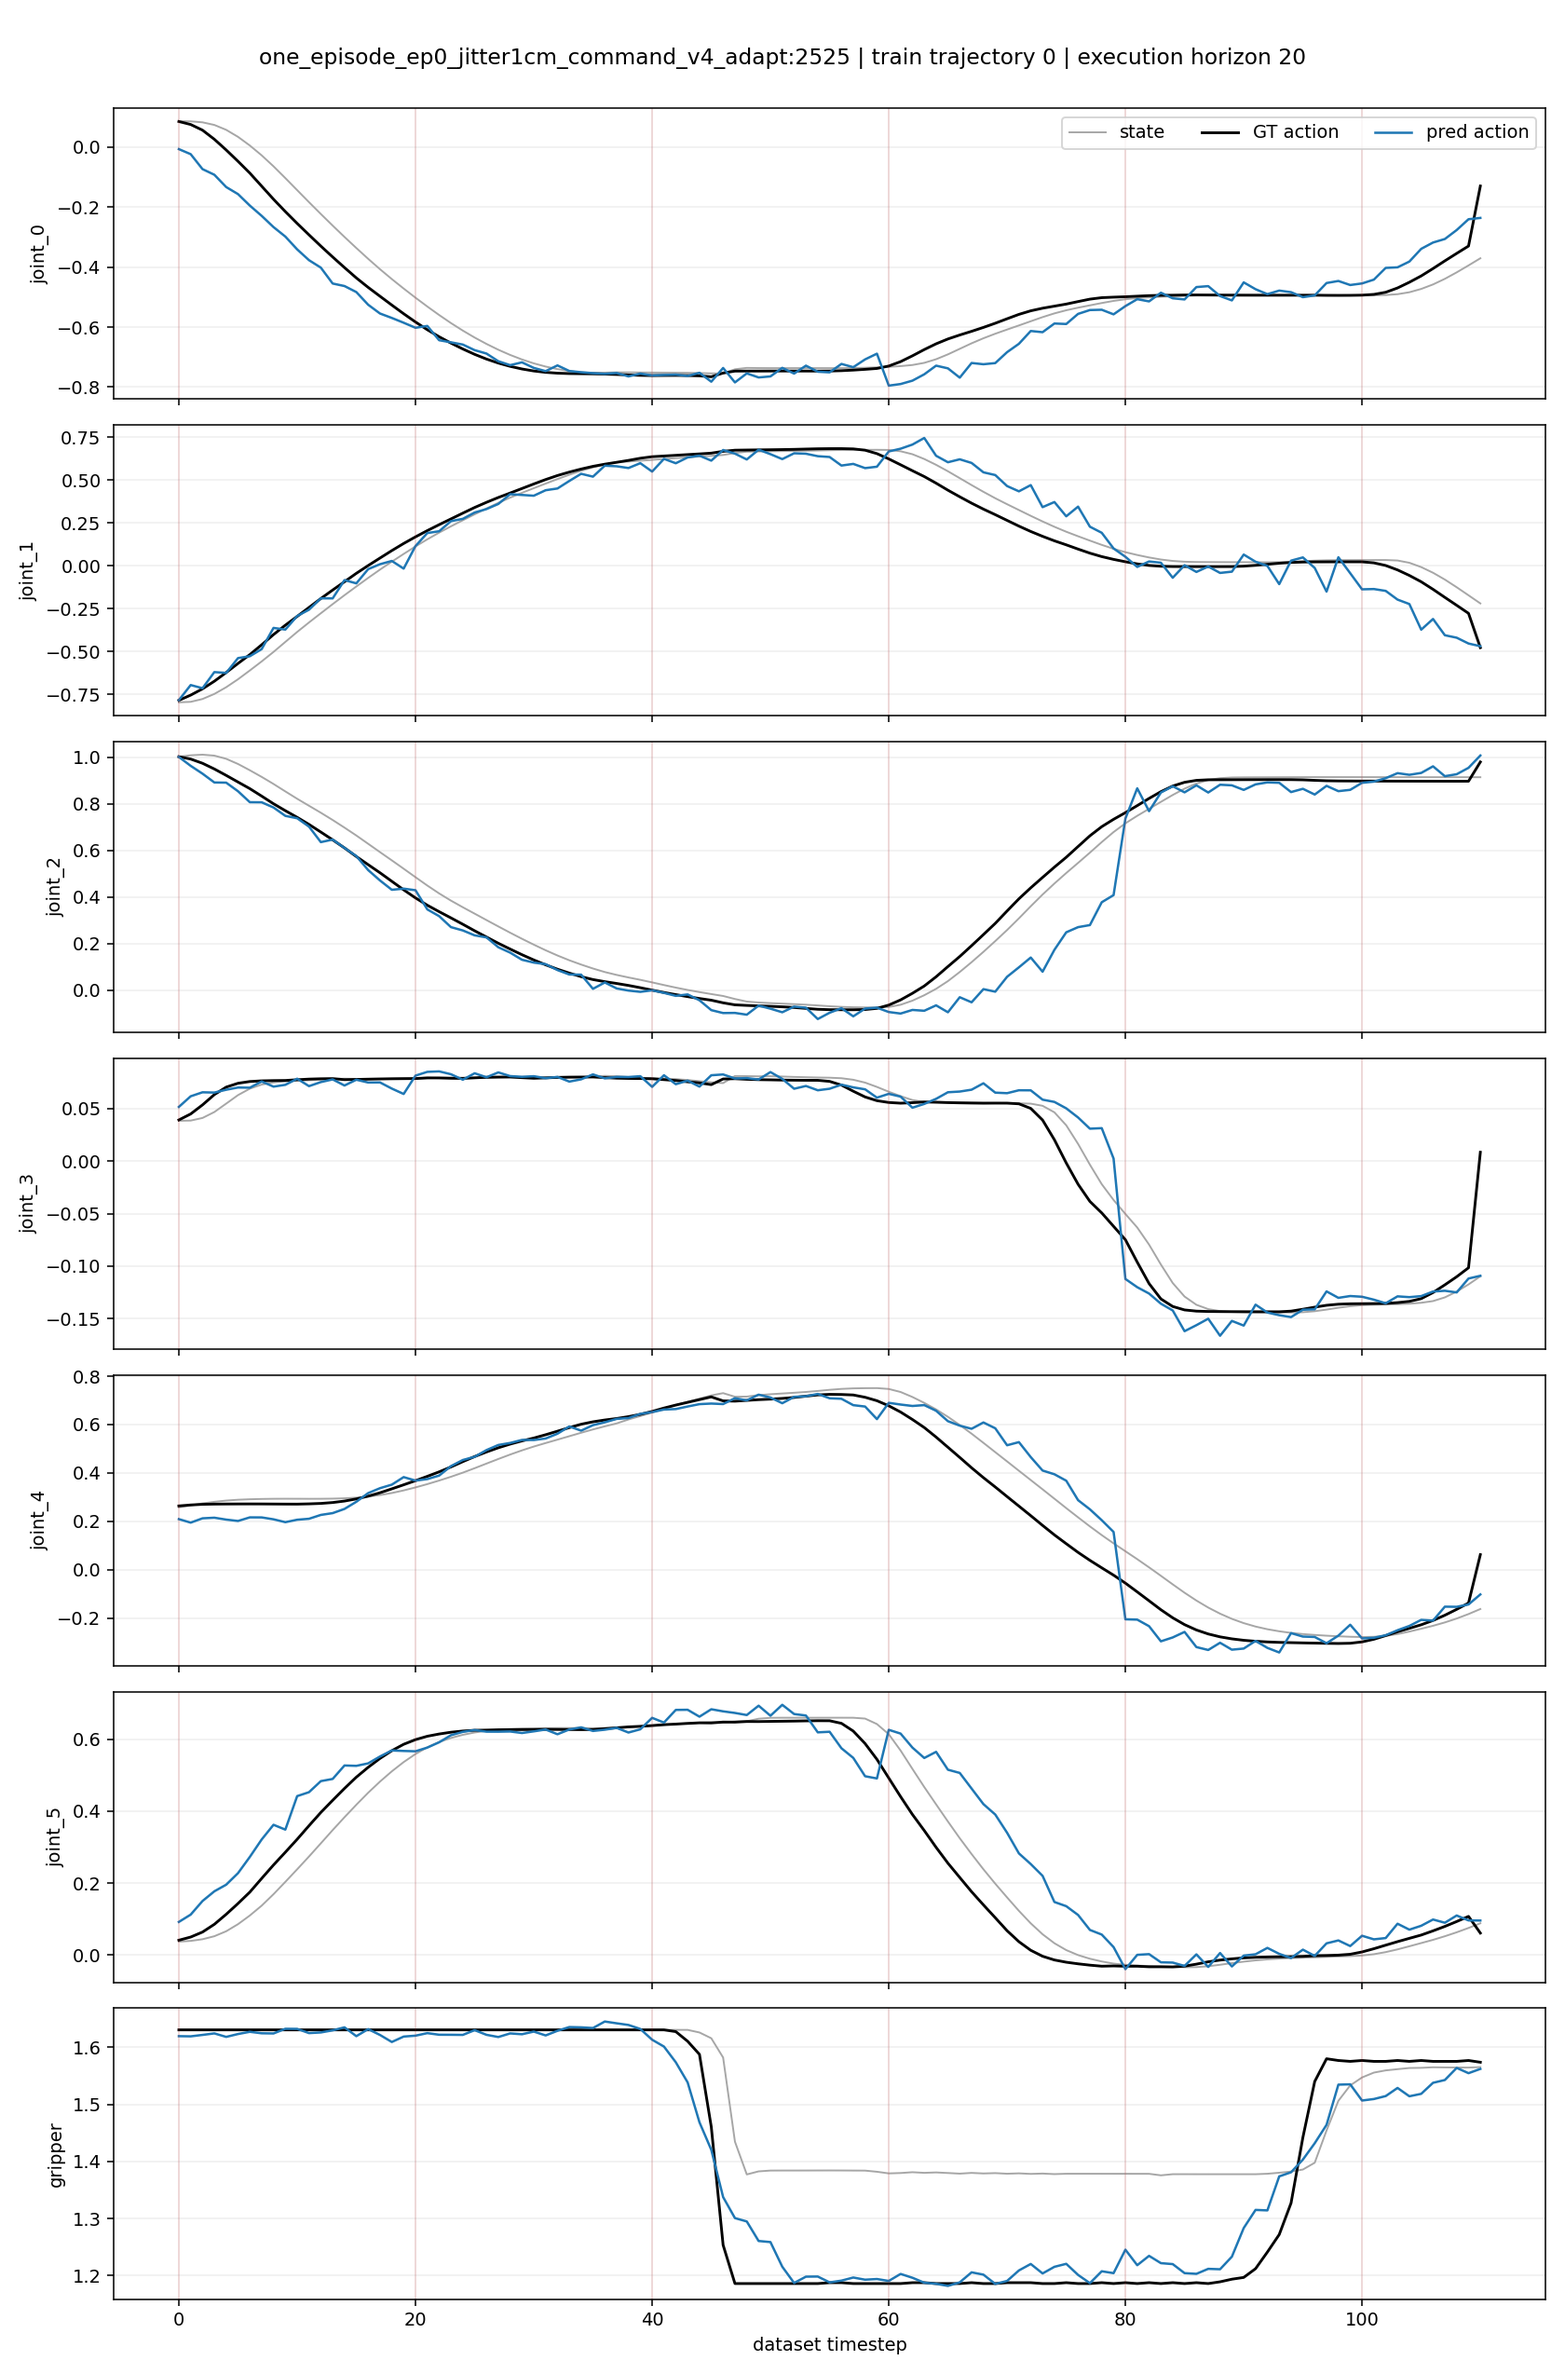
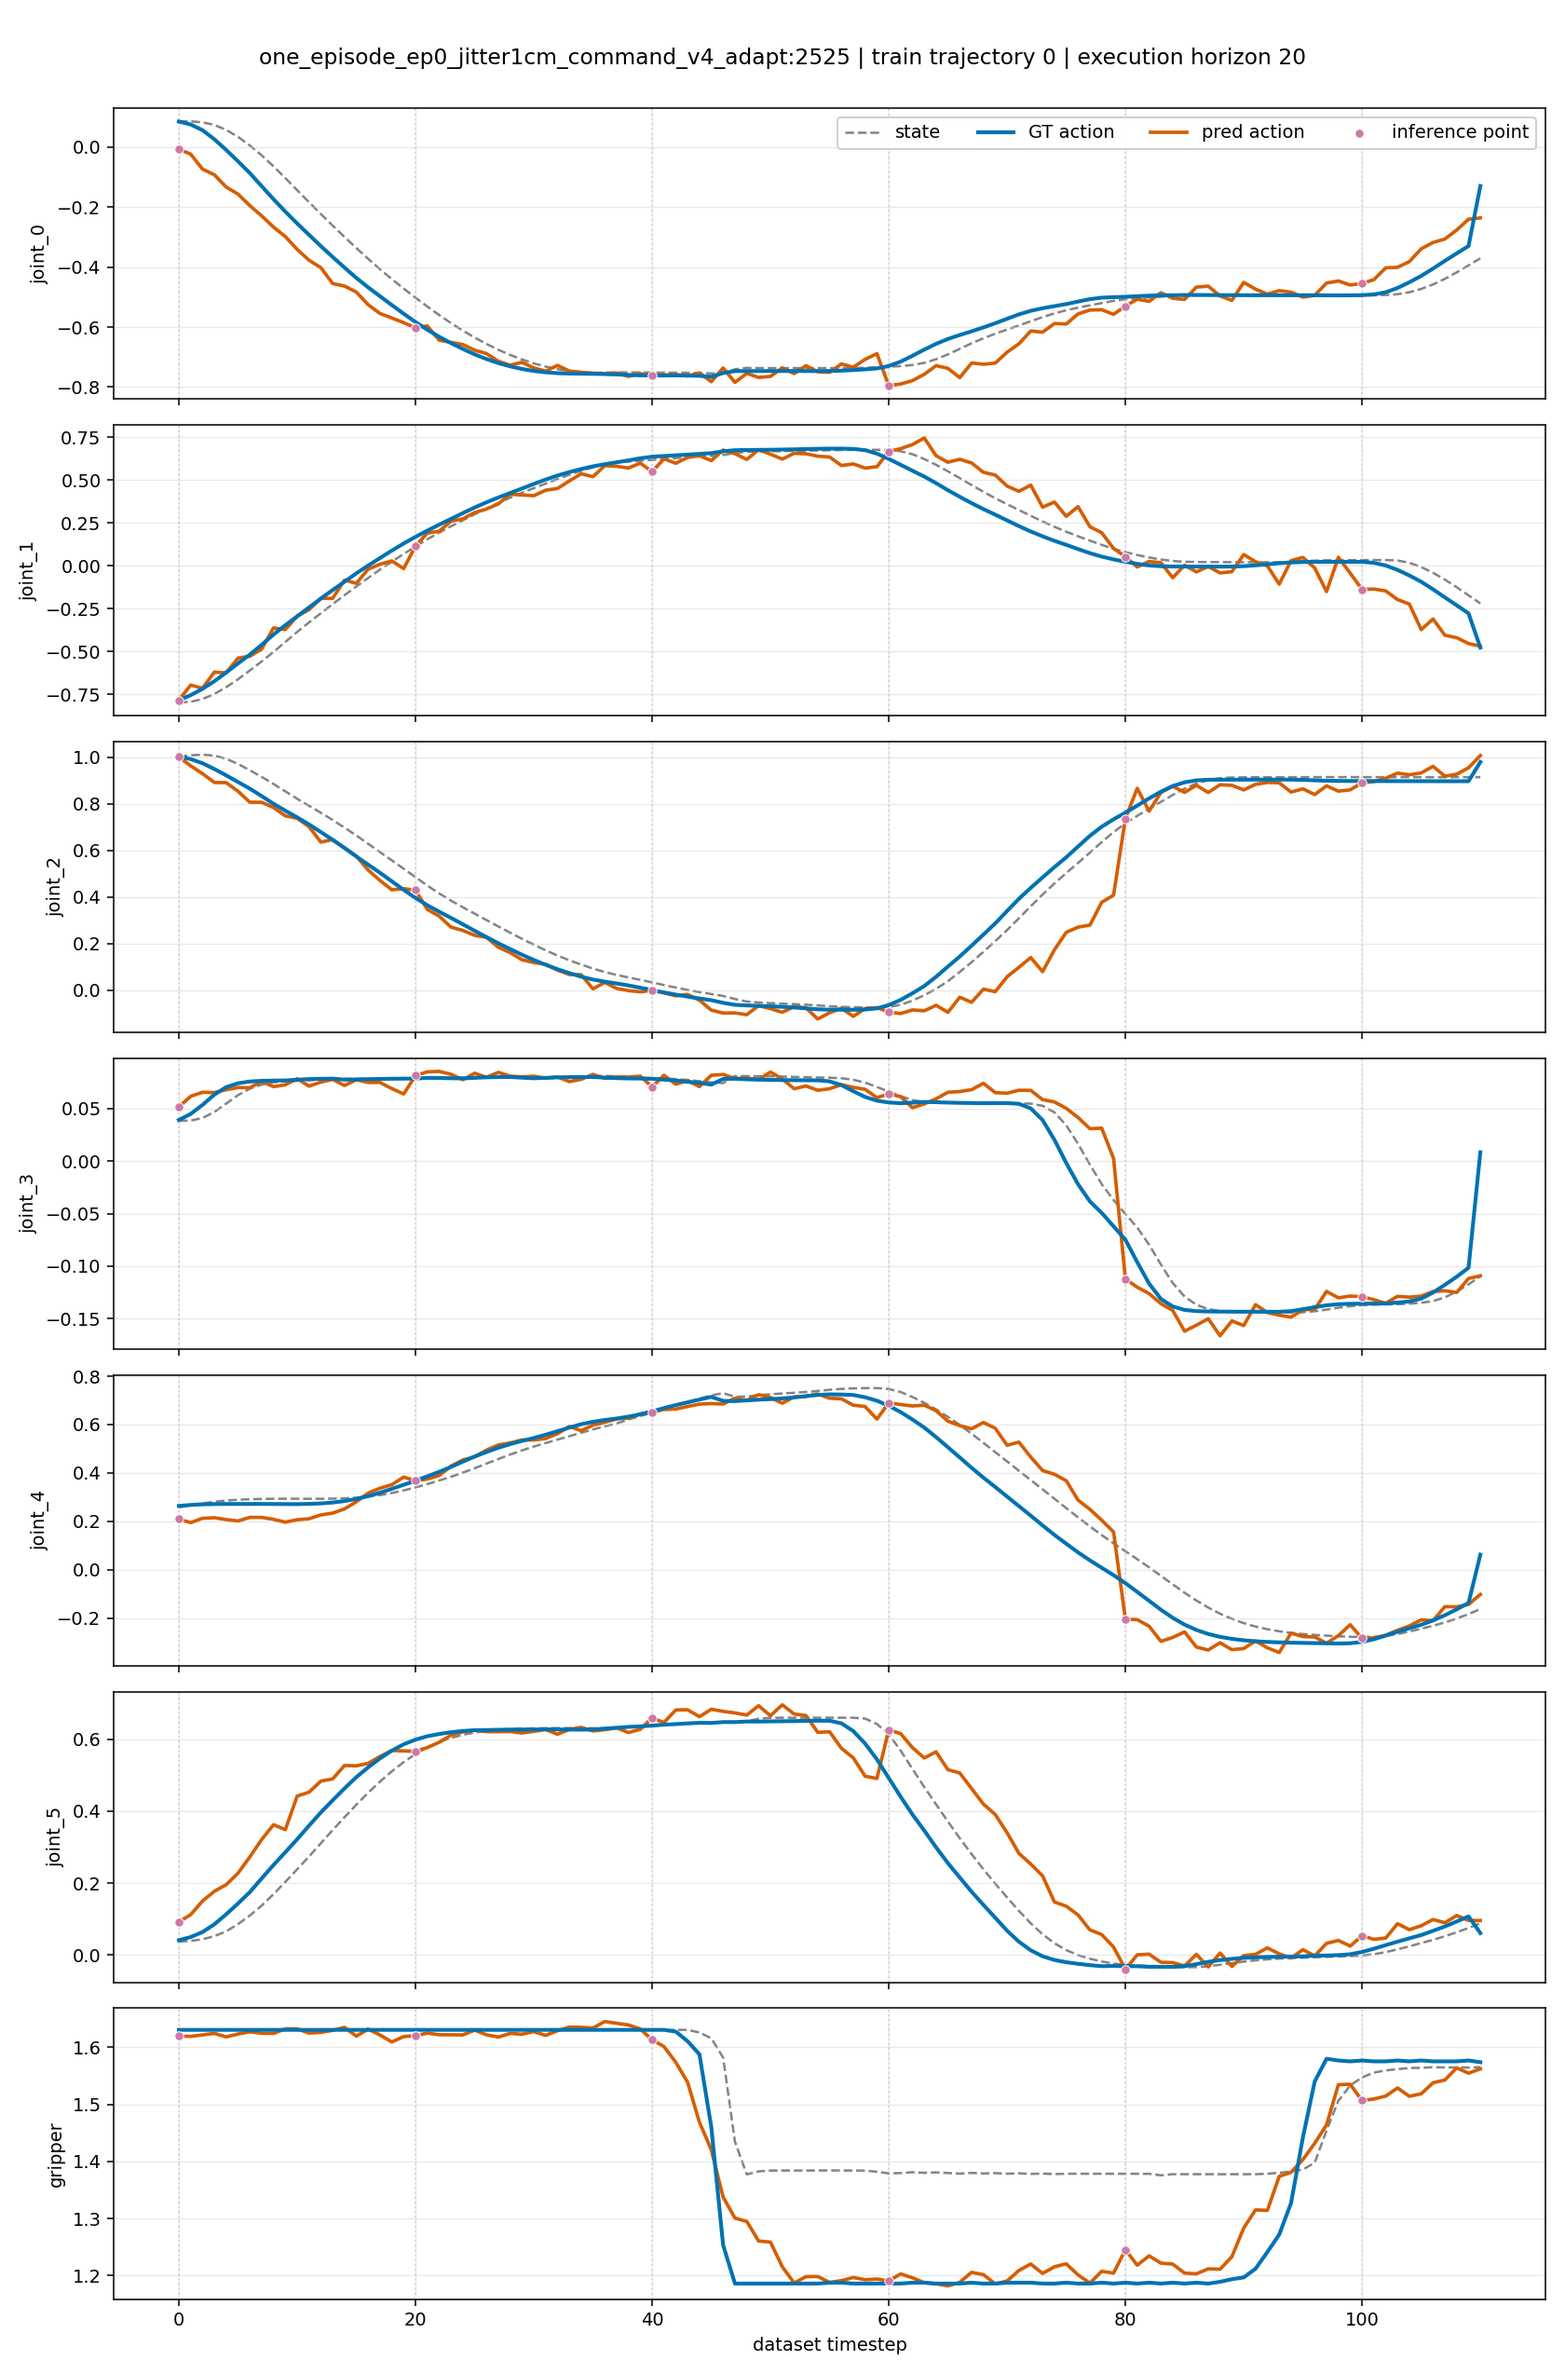
docs: improve open-loop plot contrast

diff --git a/scripts/evaluate_octo_open_loop.py b/scripts/evaluate_octo_open_loop.py
@@ -295,15 +295,62 @@ def _plot_trajectory(
         target_values = np.where(valid[:, dim], target[:, dim], np.nan)
         predicted_values = np.where(valid[:, dim], predicted[:, dim], np.nan)
         if state is not None and state.shape == target.shape:
-            ax.plot(timesteps, state[:, dim], color="0.65", linewidth=1, label="state")
-        ax.plot(timesteps, target_values, color="black", linewidth=1.5, label="GT action")
-        ax.plot(timesteps, predicted_values, color="#1f77b4", linewidth=1.3, label="pred action")
+            ax.plot(
+                timesteps,
+                state[:, dim],
+                color="#666666",
+                linestyle="--",
+                linewidth=1.3,
+                alpha=0.8,
+                label="state",
+                zorder=1,
+            )
+        ax.plot(
+            timesteps,
+            target_values,
+            color="#0072B2",
+            linewidth=2.1,
+            label="GT action",
+            zorder=3,
+        )
+        ax.plot(
+            timesteps,
+            predicted_values,
+            color="#D55E00",
+            linewidth=1.9,
+            label="pred action",
+            zorder=2,
+        )
         for point in inference_points:
-            ax.axvline(point, color="#d62728", alpha=0.16, linewidth=0.8)
+            ax.axvline(
+                point,
+                color="#CC79A7",
+                linestyle=":",
+                alpha=0.35,
+                linewidth=1.0,
+                zorder=0,
+            )
+        visible_inference_points = [
+            point
+            for point in inference_points
+            if 0 <= point < len(predicted_values)
+            and np.isfinite(predicted_values[point])
+        ]
+        if visible_inference_points:
+            ax.scatter(
+                visible_inference_points,
+                predicted_values[visible_inference_points],
+                color="#CC79A7",
+                edgecolors="white",
+                linewidths=0.5,
+                s=24,
+                label="inference point",
+                zorder=4,
+            )
         ax.set_ylabel(names[dim])
-        ax.grid(True, alpha=0.2)
+        ax.grid(True, color="#D0D0D0", alpha=0.45, linewidth=0.7)
         if dim == 0:
-            ax.legend(loc="upper right", ncol=3)
+            ax.legend(loc="upper right", ncol=4, framealpha=0.95)
     axes[-1].set_xlabel("dataset timestep")
     fig.suptitle(title)
     fig.tight_layout(rect=(0, 0, 1, 0.98))

diff --git a/docs/octo_open_loop_two_models_vi.md b/docs/octo_open_loop_two_models_vi.md
@@ -97,9 +97,11 @@ Mỗi model được đánh giá trên trajectory index `0` của hai split:
 
 ### 4.5 Biểu đồ GT-vs-prediction
 
-Các đường màu đen là ground-truth action, các đường màu xanh là action dự
-đoán, đường màu xám là state tham chiếu và các vạch đỏ dọc đánh dấu thời điểm
-inference.
+Các đường màu xanh dương là ground-truth action, các đường màu cam là action dự
+đoán và đường màu xám nét đứt là state tham chiếu. Chấm tròn cùng vạch dọc màu
+tím đánh dấu thời điểm inference. Ngoài màu sắc tương phản, kiểu nét và marker
+khác nhau giúp biểu đồ vẫn dễ đọc khi in thang xám hoặc với người bị rối loạn
+sắc giác.
 
 **Checkpoint step 20000 — train trajectory 0**
 

diff --git a/docs/octo_open_loop_two_models_en.md b/docs/octo_open_loop_two_models_en.md
@@ -101,8 +101,11 @@ number of steps to the trajectory length.
 
 ### 4.5 GT-vs-Prediction Plots
 
-Black lines show ground-truth actions, blue lines show predicted actions, gray
-lines show the reference state, and vertical red lines mark inference points.
+Blue lines show ground-truth actions, orange lines show predicted actions, and
+dashed gray lines show the reference state. Purple circles and vertical dotted
+lines mark inference points. In addition to the high-contrast palette, distinct
+line styles and markers keep the plots legible in grayscale and for readers
+with color-vision deficiencies.
 
 **Checkpoint at step 20000 — train trajectory 0**
 
